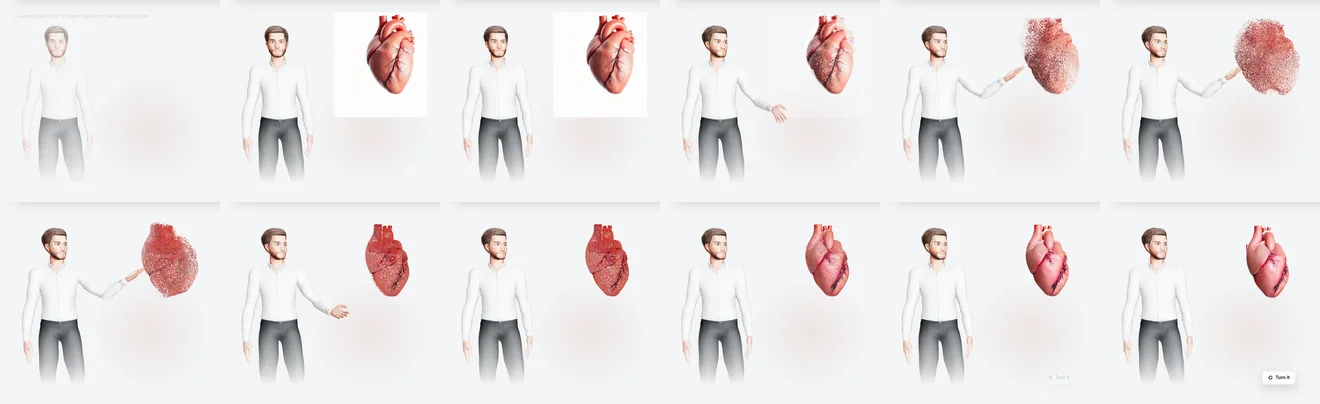
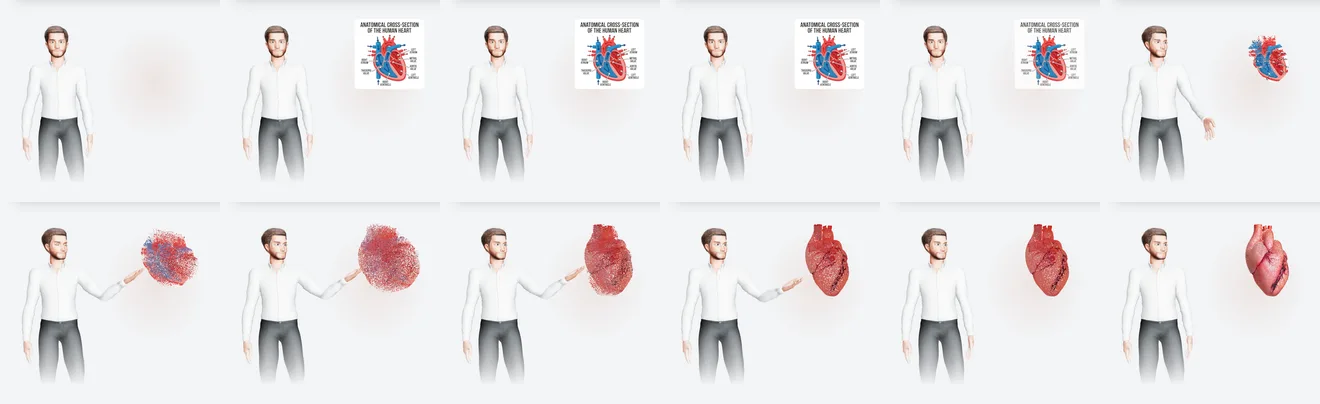
Build the model from the lesson's infographic
The heart lesson's board infographic, in a rounded card, is the picture:
its drawn heart lifts into points and settles onto the model. The build
starts a little later so the picture is seen, and PresentModel still
lands with the fingertip at the heart's edge (re-verified in both
themes). Records Hmz's second review and the hero's play.

diff --git a/src/components/landing/stage/HeartBuild.tsx b/src/components/landing/stage/HeartBuild.tsx
@@ -2,7 +2,7 @@ import { useFrame, useThree } from "@react-three/fiber";
 import { useGLTF, useTexture } from "@react-three/drei";
 import { useEffect, useMemo, useRef } from "react";
 import {
-  BufferAttribute, BufferGeometry, Color, Group, LineBasicMaterial, LineSegments, Material, Mesh, MeshBasicMaterial,
+  BufferAttribute, BufferGeometry, CanvasTexture, Color, Group, LineBasicMaterial, LineSegments, Material, Mesh, MeshBasicMaterial,
   MeshStandardMaterial, Points, SRGBColorSpace, ShaderMaterial, Vector2, Vector3, type Object3D,
 } from "three";
 import { MeshSurfaceSampler } from "three/examples/jsm/math/MeshSurfaceSampler.js";
@@ -20,9 +20,16 @@ import { warmUp } from "./warm";
  * the original cost a 200 to 400ms frame mid-scroll.
  */
 export const MODEL_URL = "/landing/heart.glb";
-export const SOURCE_URL = "/demo/heart/source.jpg";
-
-/** The photo card floats this far in front of the model's centre, in model units. */
+/** The lesson's own picture of the heart: its board infographic (Hmz, V8.3b: the picture is an infographic). */
+export const SOURCE_URL = "/demo/heart/teaching.jpg";
+/**
+ * Where the heart itself is in the infographic, in uv (the title and the labels are around it): the model's front
+ * view is mapped onto this box, so each point starts on the drawn heart, in its colour.
+ */
+const PICTURE_HEART = { u0: 0.24, u1: 0.75, v0: 0.24, v1: 0.9 } as const;
+/** The picture card's width in model units: smaller than the model, so it stays in frame and clear of his hand. */
+const CARD_W = 0.88;
+/** The picture card floats this far in front of the model's centre, in model units. */
 const CARD_Z = 0.45;
 const POINTS = 26000;
 const WIRE_TRIANGLES = 14000;
@@ -33,6 +40,20 @@ interface Built {
   solid: Object3D;
   solidMaterials: Material[];
   card: { w: number; x: number; y: number };
+}
+
+/** The picture card's rounded corners (the system's surface radius, 16 of about 300 px), as an alpha map. */
+function roundedMask(): CanvasTexture {
+  const c = document.createElement("canvas");
+  c.width = c.height = 256;
+  const ctx = c.getContext("2d")!;
+  ctx.fillStyle = "#000";
+  ctx.fillRect(0, 0, 256, 256);
+  ctx.fillStyle = "#fff";
+  ctx.beginPath();
+  ctx.roundRect(0, 0, 256, 256, 14);
+  ctx.fill();
+  return new CanvasTexture(c);
 }
 
 /** Pixels of an image, drawn small, for colour lookups by uv. */
@@ -52,7 +73,7 @@ const at = (px: Uint8ClampedArray, size: number, u: number, v: number, out: Colo
 
 /**
  * Everything the build needs, computed once from the real assets: points sampled on the heart's surface (colour
- * from its texture) with starts on the flat photo (colour from the photo, at the pixel the front view maps to), a
+ * from its texture) with starts on the flat picture (colour from the picture, at the pixel the front view maps to), a
  * sparse wireframe of the real mesh (every Nth triangle), and the solid model with fadeable materials.
  */
 function build(scene: Object3D, photo: HTMLImageElement): Built {
@@ -62,16 +83,9 @@ function build(scene: Object3D, photo: HTMLImageElement): Built {
   if (!mesh) throw new Error("heart model has no mesh");
   const m = mesh as Mesh;
 
-  // The photo's heart: the bounding box of its non-white pixels, in uv.
-  const PS = 128;
+  const PS = 256;
   const photoPx = pixels(photo, PS);
-  let u0 = 1, u1 = 0, v0 = 1, v1 = 0;
-  for (let y = 0; y < PS; y++) for (let x = 0; x < PS; x++) {
-    const i = (y * PS + x) * 4;
-    if ((photoPx[i] + photoPx[i + 1] + photoPx[i + 2]) / 765 < 0.9) {
-      u0 = Math.min(u0, x / PS); u1 = Math.max(u1, x / PS); v0 = Math.min(v0, y / PS); v1 = Math.max(v1, y / PS);
-    }
-  }
+  const { u0, u1, v0, v1 } = PICTURE_HEART;
 
   const mat = (Array.isArray(m.material) ? m.material[0] : m.material) as MeshStandardMaterial;
   const TS = 256;
@@ -90,10 +104,11 @@ function build(scene: Object3D, photo: HTMLImageElement): Built {
     if (texPx) at(texPx, TS, uv.x, uv.y, col); else col.set("#b5433c");
     c1.set([col.r, col.g, col.b], i * 3);
   }
-  // The card: the photo, sized so its heart covers the model's front view.
-  const cardW = Math.max((xmax - xmin) / Math.max(0.05, u1 - u0), (ymax - ymin) / Math.max(0.05, v1 - v0));
-  const cardX = xmin - u0 * cardW;
-  const cardY = ymax + v0 * cardW;
+  // The card: the whole infographic, centred on the model's front view; the points start on its drawn heart and
+  // grow onto the model as they fly.
+  const cardW = CARD_W;
+  const cardX = (xmin + xmax) / 2 - cardW / 2;
+  const cardY = (ymin + ymax) / 2 + cardW / 2;
   for (let i = 0; i < POINTS; i++) {
     const x = pos[i * 3], y = pos[i * 3 + 1];
     const u = u0 + ((x - xmin) / (xmax - xmin)) * (u1 - u0);
@@ -150,9 +165,11 @@ function build(scene: Object3D, photo: HTMLImageElement): Built {
 }
 
 /**
- * Image to 3D: the real FLUX photo (`source.jpg`) floats in front of the heart's place; its pixels lift off as
- * points, fly onto the real Tripo mesh (`model.glb`), a wireframe of the mesh shows through, then the solid model
- * fades in and the points fall away (V8.3; V8.3b runs it on the model section's clock, beside Jake's open hand).
+ * Picture to 3D: the lesson's real infographic (`teaching.jpg`) floats where the heart will be; the pixels of its
+ * drawn heart lift off as points, fly onto the real Tripo mesh (`model.glb`), a wireframe of the mesh shows through,
+ * then the solid model fades in and the points fall away. An illustration of the step (the real model is made from
+ * a separate generated photo), labelled so on the page. V8.3; V8.3b runs it on the model section's clock, beside
+ * Jake's open hand.
  *
  * Once built it turns slowly and can be turned: `shared.heart.turn` is the reader's own turn (a drag, or Turn it),
  * eased towards; the slow turn stops once the reader has turned it. Replaying the build unwinds it to face them.
@@ -173,11 +190,11 @@ export function HeartBuild() {
     vertexShader: POINTS_VERT, fragmentShader: POINTS_FRAG, transparent: true, depthWrite: false,
   }), []);
   const wireMat = useMemo(() => new LineBasicMaterial({ color: "#f3c6a8", transparent: true, opacity: 0, depthWrite: false }), []);
-  const cardMat = useMemo(() => new MeshBasicMaterial({ map: photo, transparent: true, opacity: 0, toneMapped: false }), [photo]);
+  const cardMat = useMemo(() => new MeshBasicMaterial({ map: photo, alphaMap: roundedMask(), transparent: true, opacity: 0, toneMapped: false }), [photo]);
   const pointsObj = useMemo(() => new Points(built.points, pointsMat), [built, pointsMat]);
   const wireObj = useMemo(() => new LineSegments(built.wire, wireMat), [built, wireMat]);
   useEffect(() => () => { built.points.dispose(); built.wire.dispose(); built.solidMaterials.forEach((m) => m.dispose()); }, [built]);
-  useEffect(() => () => { pointsMat.dispose(); wireMat.dispose(); cardMat.dispose(); }, [pointsMat, wireMat, cardMat]);
+  useEffect(() => () => { pointsMat.dispose(); wireMat.dispose(); cardMat.alphaMap?.dispose(); cardMat.dispose(); }, [pointsMat, wireMat, cardMat]);
 
   // Warmed before its beat (warm.ts): shaders compiled in parallel, textures uploaded in idle moments, then one
   // invisible draw for the geometry. Its first visible frame then costs what any other frame does.

diff --git a/src/components/landing/stage/scripts.ts b/src/components/landing/stage/scripts.ts
@@ -30,10 +30,10 @@ export const WAVE_COOLDOWN_S = 8;
  * and settles on the model; he presents as the points lift, so his open hand is out beside the heart while it forms.
  */
 export const MODEL_T = {
-  lift: 0.9,
-  present: 1.1,
-  built: 4.6,
-  length: 5.2,
+  lift: 1.3,
+  present: 1.8,
+  built: 5.0,
+  length: 5.6,
 } as const;
 
 /**

diff --git a/.claude/eval/2026-09-30-v8-3b-landing/README.md b/.claude/eval/2026-09-30-v8-3b-landing/README.md
@@ -78,3 +78,22 @@ Steps 2 to 5 of plan section 8, plus the model section (round 3's "It Builds the
 | `check.cjs` | AA, targets, overflow and a screenshot per stop |
 | `perf.cjs` | LCP, CLS, time to live, frame times (`THROTTLE=4` for the throttled lite run) |
 | `review.cjs` | The review sheet |
+
+### Round 2 (Hmz's review of the first sections)
+
+Hmz: the hero is a hello, not a lesson; the landing shows features, not one hardcoded lesson (the lesson is the
+demo's); the lesson's picture is an infographic; spread the topics (volcano, heart, volcano).
+
+- **Hero** (`review-round2.webp`, `hero-*.webp`, `scripts/hero-play.cjs`): the heart lesson's line card is gone.
+  Jake waves on arrival, then plays along with the product's own gestures:
+  - his head and eyes follow the mouse pointer (a new optional `viewer` on Teacher's driver; the classroom path
+    is unchanged);
+  - hovering or focusing Try a lesson gets "your turn" (both palms offered);
+  - a tap on him gets another wave, and coming back to the page after 3 s away gets a welcome-back wave.
+  - Tried and dropped: an approving nod on Create an account. The product's "that's right" pool also picks
+    "Exactly", a one-hand offer to his left, away from the button.
+- **The model build** (`model-strip-*.webp`, `present-peak-*.webp`): it starts from the heart lesson's infographic
+  (`teaching.jpg`, rounded card), whose drawn heart lifts into points onto the model. Re-verified peak: the fingertip
+  is 2.2 cm from the heart's edge, and his hand is at 0.37 of its height, in both themes.
+- **Topics from here:** It Finds the Ideas and It Draws the Picture use the volcano, the model build the heart, and
+  Immersive the volcano. Five Moves is described in plain words, with no lesson lines.
